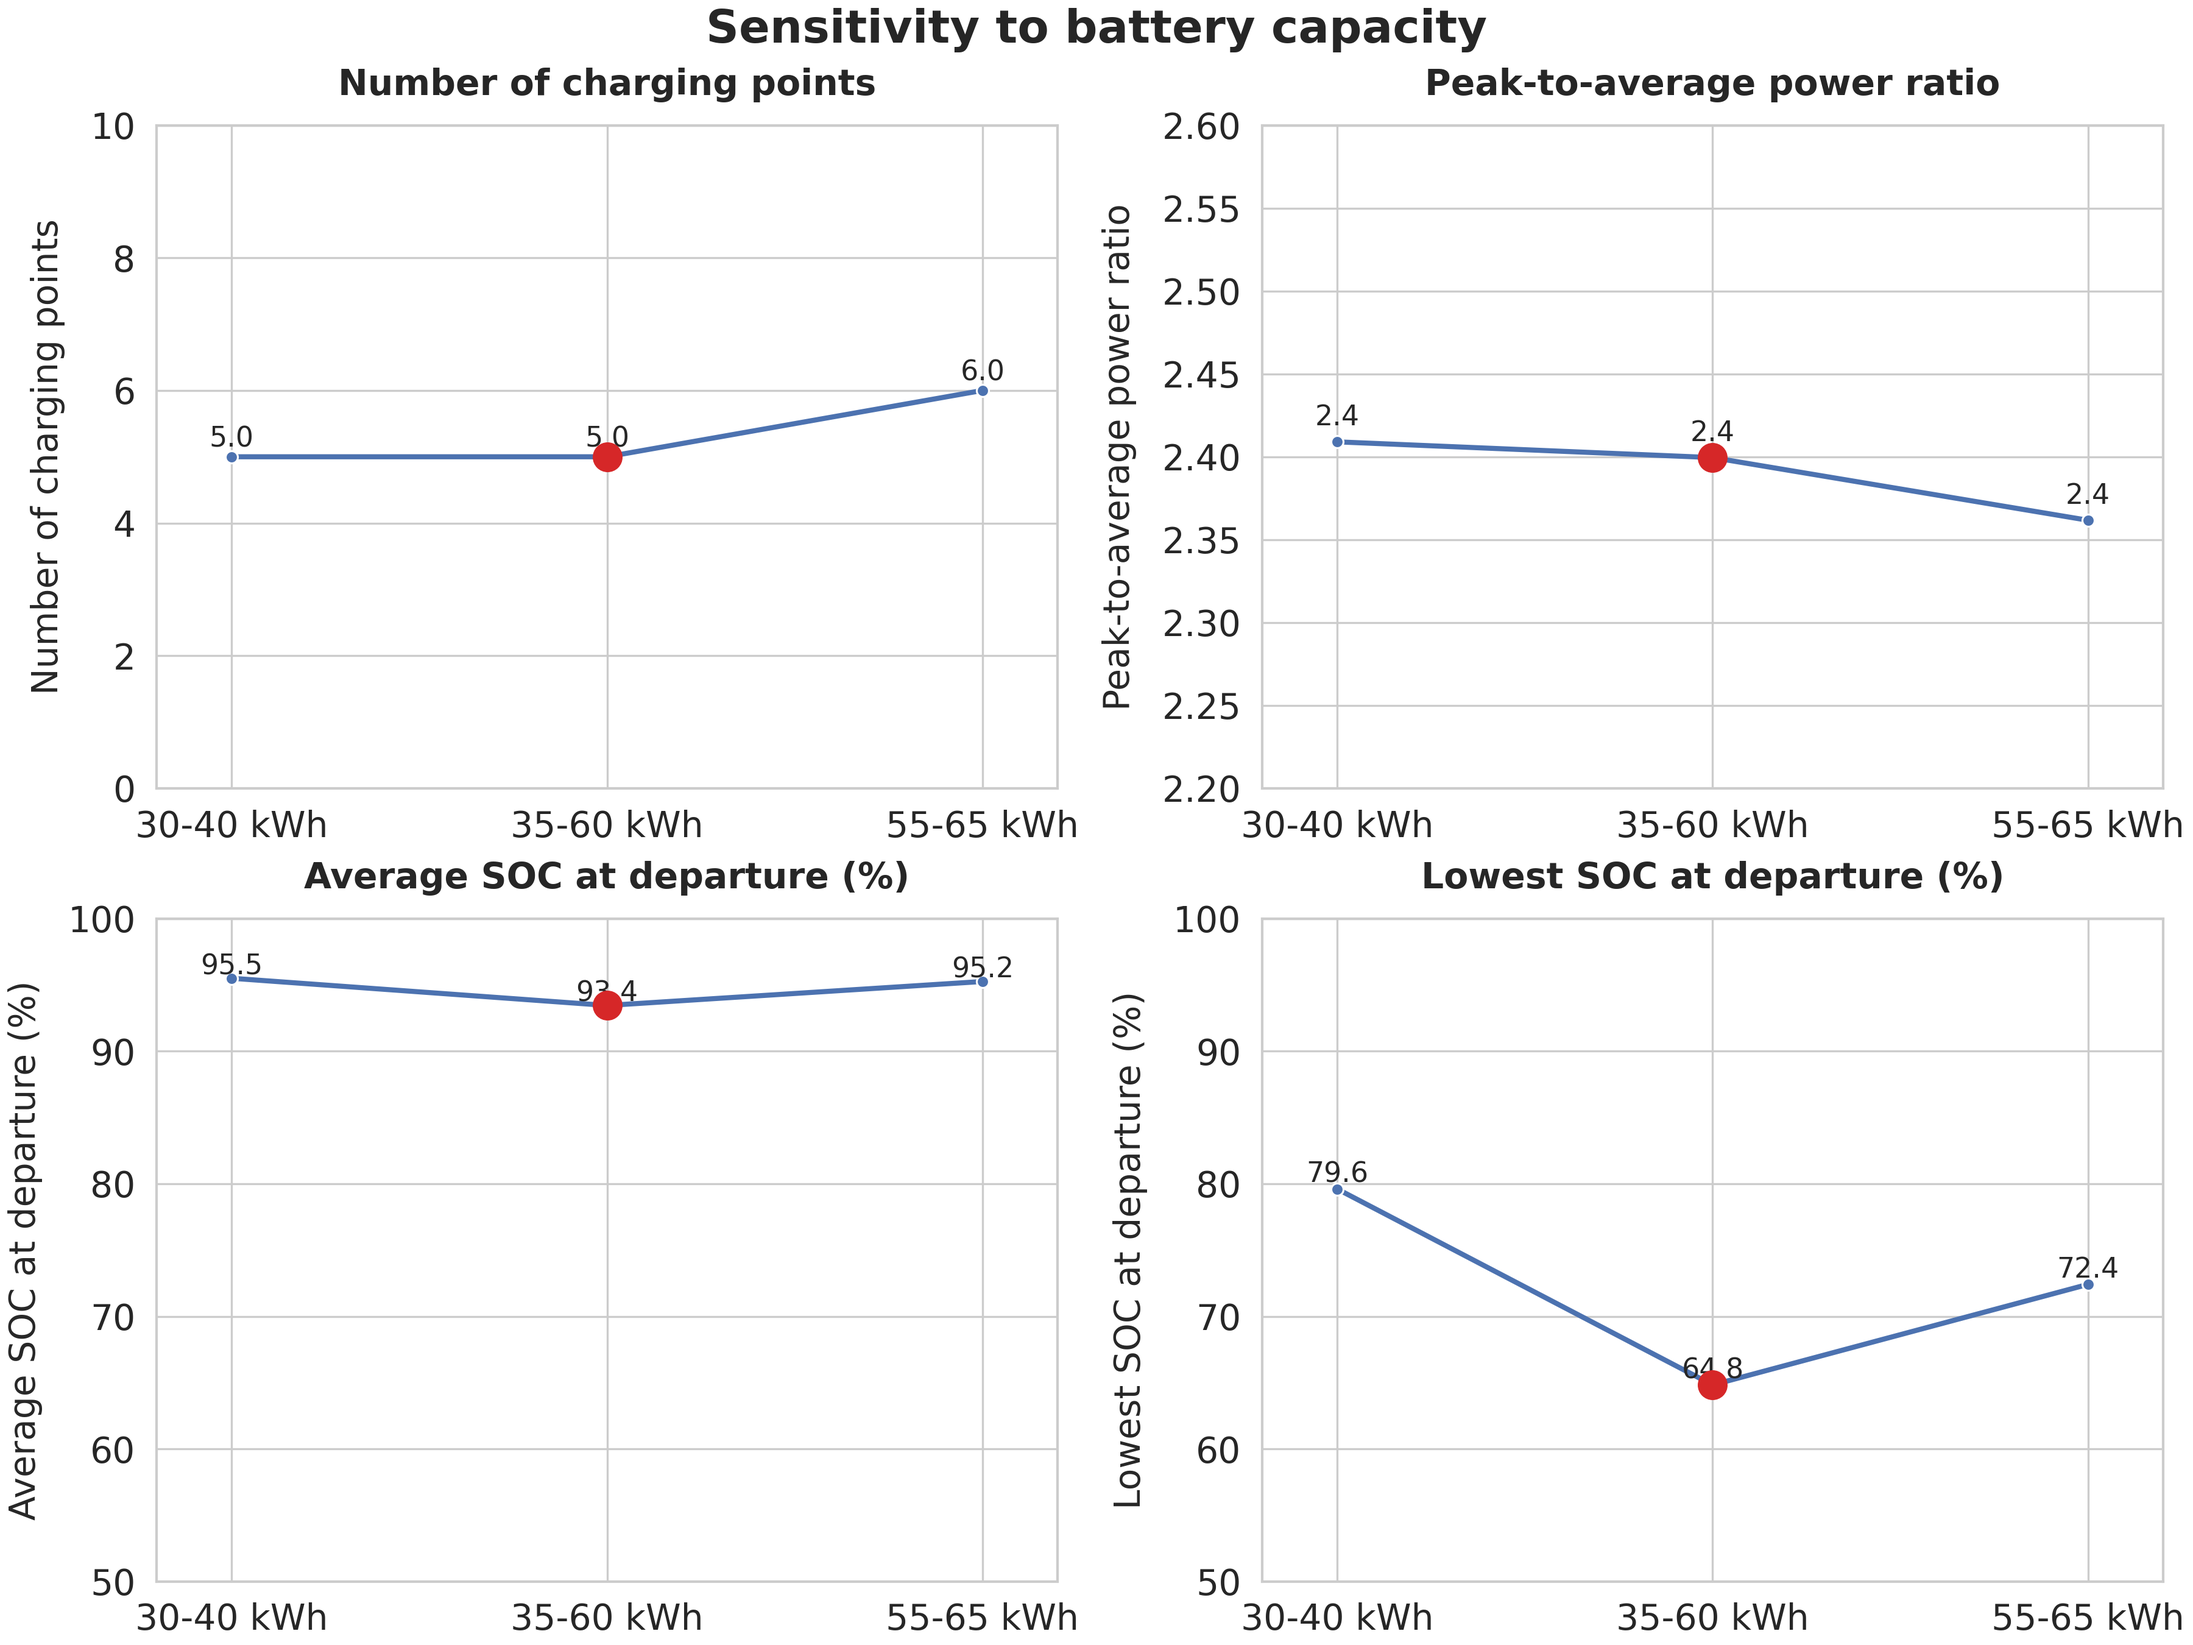
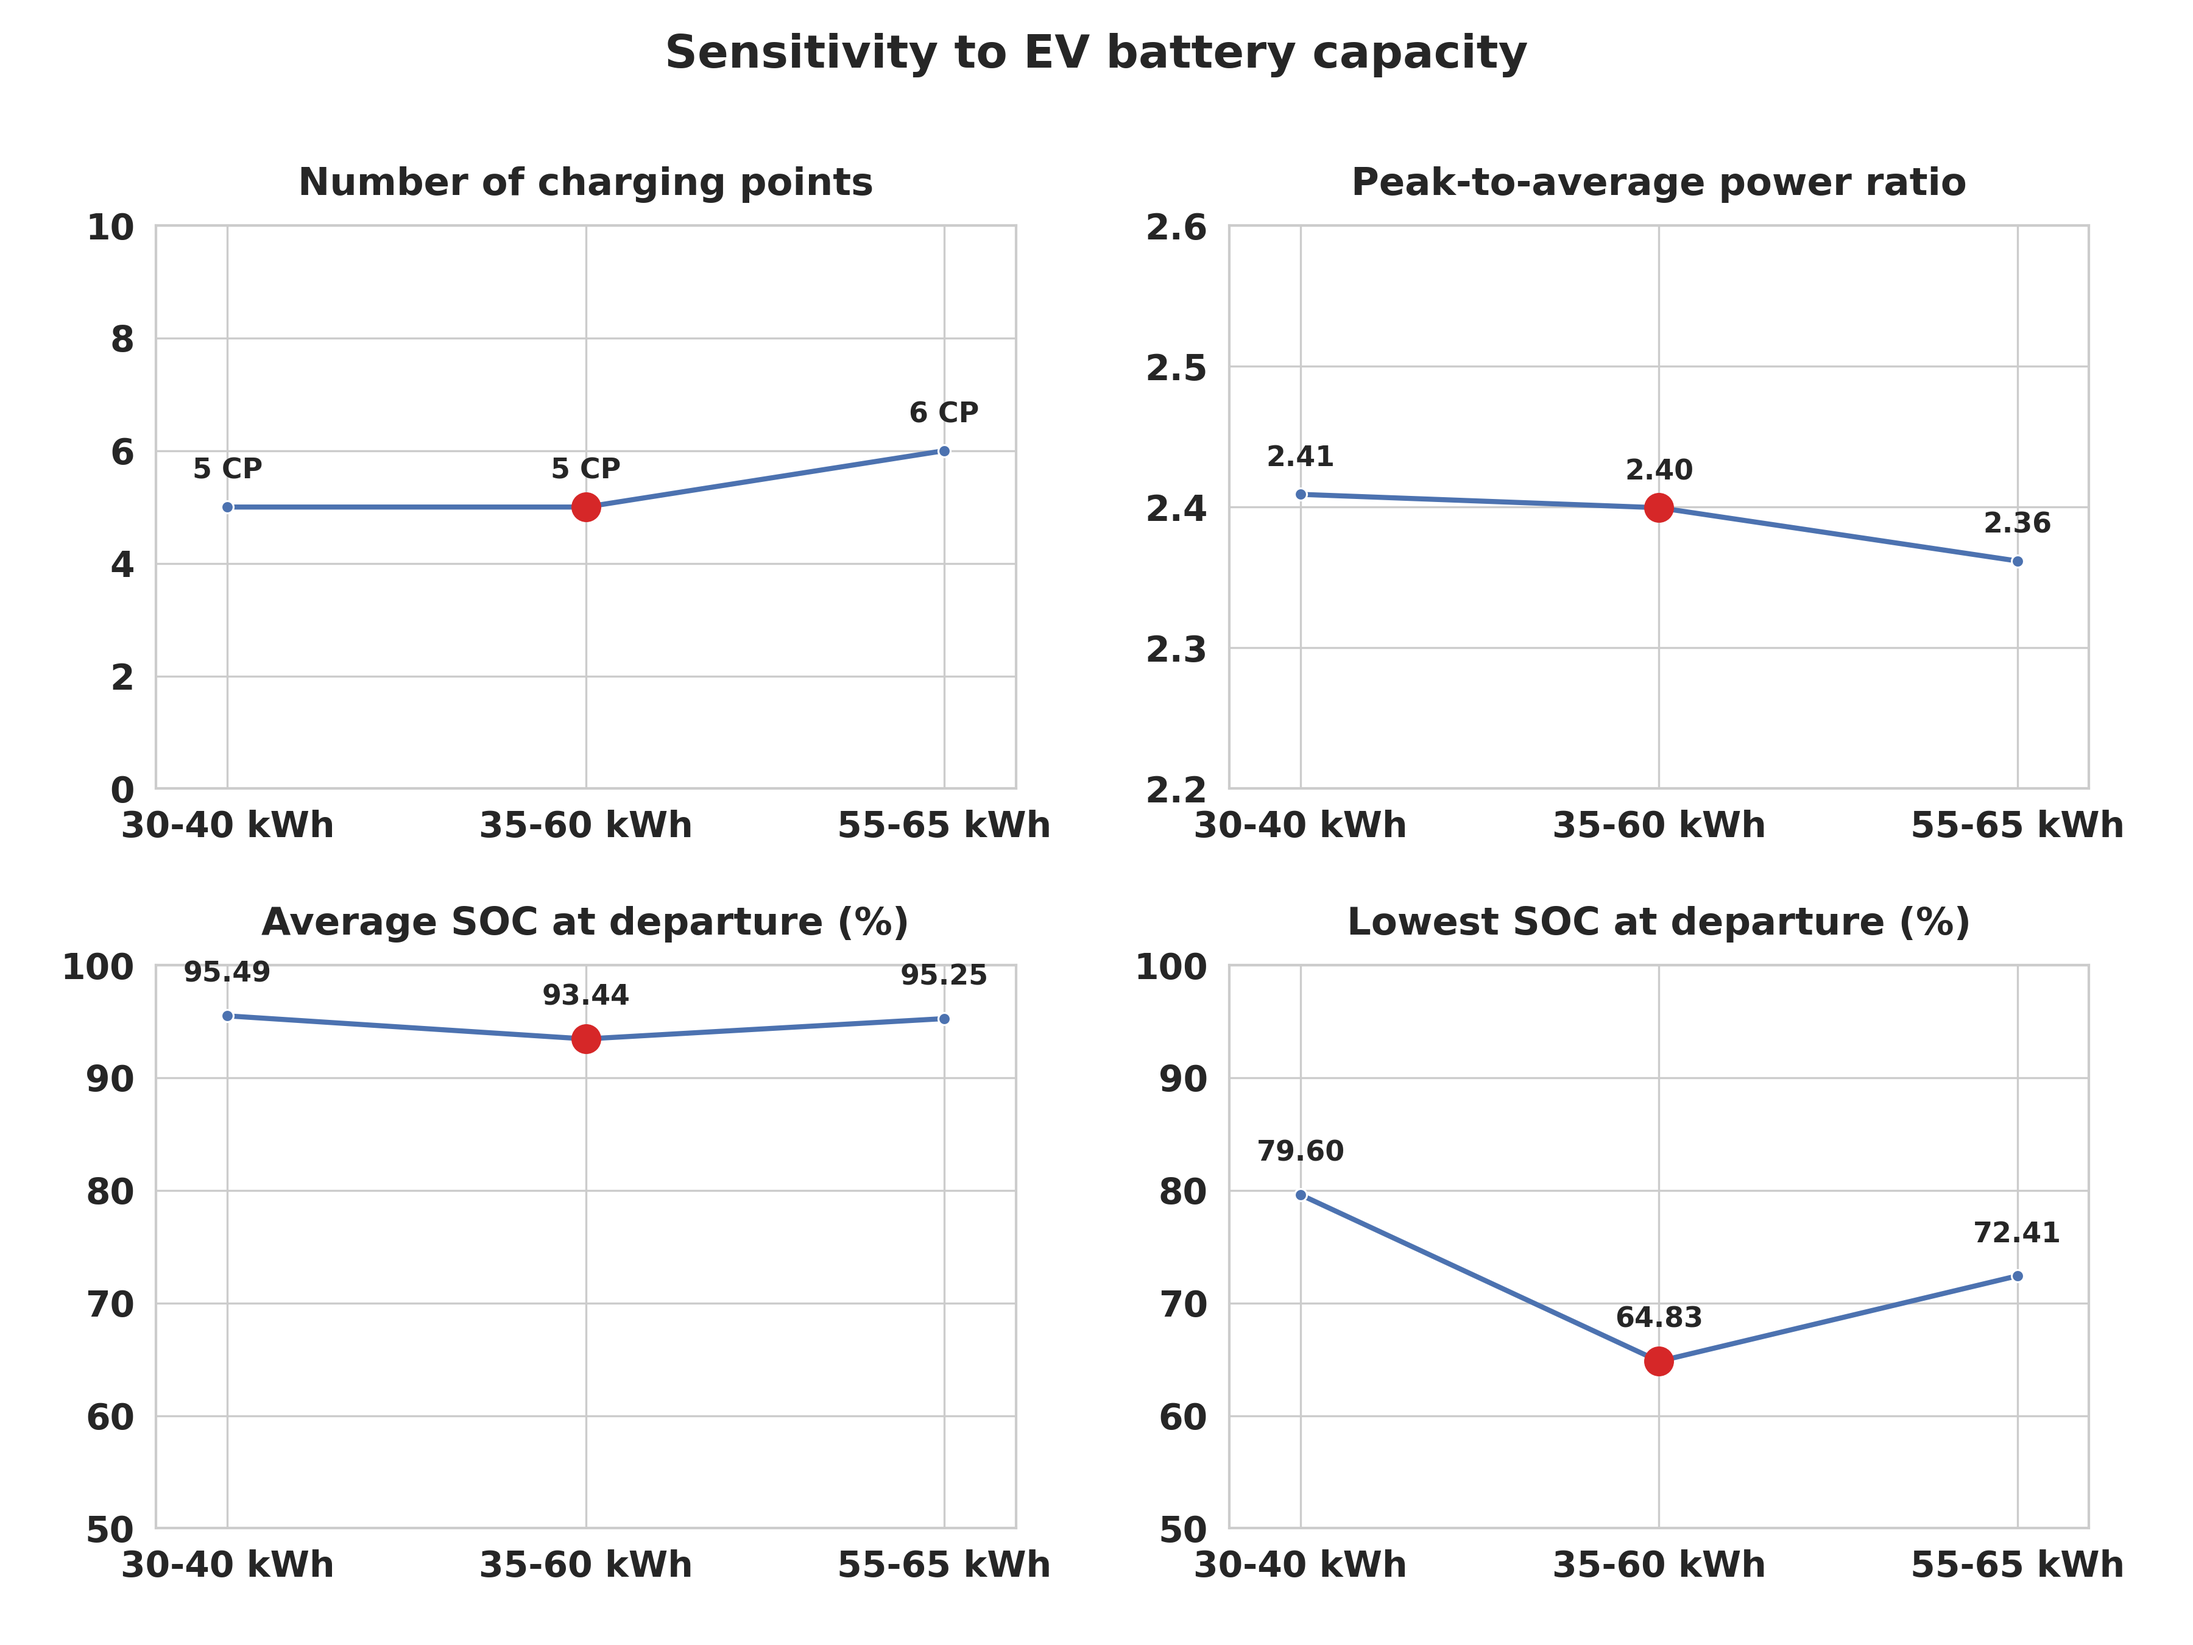
New model outputs and update sensitivity analysis plotting pipeline

diff --git a/src/visualisation/plot_comparison/sensitivity_analysis.py b/src/visualisation/plot_comparison/sensitivity_analysis.py
@@ -7,8 +7,6 @@ from src.visualisation import plot_setups, plot_configs
 from src.config import params
 
 
-
-
 def get_filepath(version: str, min_soc: float, max_soc: float, cap: str, avg_dist: int):
     file_prefix = f'raw_values_compiled_metrics_{params.num_of_evs}EVs_{params.num_of_days}days_{version}'
     file_parameters = f'{min_soc}min_{max_soc}max_cap{cap}_{avg_dist}km.csv'
@@ -96,7 +94,7 @@ def get_df(params_comb: list[dict]):
 def plot_sensitivity(df: pd.DataFrame, metrics: list[str], y_labels: list[str], x_col: str, title: str, filename: str, order: list[str]):
     sns.set_theme(style='whitegrid', context='paper')
 
-    fig, axes = plt.subplots(2, 2, figsize=(12, 9), constrained_layout=True)
+    fig, axes = plt.subplots(2, 2, figsize=(12, 9))
     axes = axes.flatten()
 
     df = df.copy()
@@ -106,15 +104,15 @@ def plot_sensitivity(df: pd.DataFrame, metrics: list[str], y_labels: list[str], 
     ylims = {
         'num_cp': (0, 10),
         'papr': (2.2, 2.6),
-        'avg_soc_t_dep_percent': (90, 100),
+        'avg_soc_t_dep_percent': (50, 100),
         'lowest_soc': (50, 100)
     }
 
     offsets = {
-        'num_cp': 0.15,
-        'papr': 0.01,
-        'avg_soc_t_dep_percent': 0.3,
-        'lowest_soc': 0.5
+        'num_cp': 0.5,
+        'papr': 0.02,
+        'avg_soc_t_dep_percent': 3,
+        'lowest_soc': 3
     }
 
     baseline = order[1]
@@ -140,15 +138,56 @@ def plot_sensitivity(df: pd.DataFrame, metrics: list[str], y_labels: list[str], 
         )
 
         axes[i].set_xlabel('')
-        axes[i].set_ylabel(y_labels[metric])
-        axes[i].set_title(y_labels[metric])
+        axes[i].set_ylabel(
+            ''
+            # y_labels[metric],
+            # fontsize=12,
+            # fontweight='bold',
+            # labelpad=12
+        )
+        axes[i].set_title(
+            y_labels[metric],
+            fontsize=15,
+            fontweight='bold',
+            pad=12
+        )
         axes[i].margins(x=0.1)
         axes[i].set_ylim(ylims[metric])
 
-        for x, y in zip(df[x_col], df[metric]):
-            axes[i].text(x, y + offsets[metric], f'{y:.1f}', ha='center', fontsize=9)
+        axes[i].tick_params(
+            axis='both',
+            labelsize=14,
+        )
 
-    fig.suptitle(title, fontsize=14)
+        for label in axes[i].get_xticklabels():
+            label.set_fontweight('bold')
+
+        for label in axes[i].get_yticklabels():
+            label.set_fontweight('bold')
+
+        # Set annotation on datapoints
+        for x, y in zip(df[x_col], df[metric]):
+            if metric == 'num_cp':
+                label = f'{int(y)} CP'
+            else:
+                label = f'{y:.2f}'
+
+            axes[i].text(
+                x,
+                y + offsets[metric],
+                label,
+                ha='center',
+                fontsize=11,
+                fontweight='bold'
+            )
+
+    fig.suptitle(
+        title,
+        fontsize=18,
+        fontweight='bold',
+    )
+
+    plt.tight_layout(pad=2.5)
 
     filepath = os.path.join(params.plots_folder_path, filename)
     plt.savefig(filepath, dpi=300)
@@ -185,16 +224,15 @@ if __name__ == '__main__':
 
     df_all = get_df(params_combination)
 
-
     # Sensitivity to initial SOC
     df_soc = df_all[df_all['capacity'] == '35-60 kWh']
     df_soc = df_soc[df_soc['distance'] == '25 km']
     plot_sensitivity(
+        df_soc,
         metrics,
         y_labels,
-        df_soc,
         'soc_range',
-        'Sensitivity to initial SOC limits',
+        'Sensitivity to initial SOC range',
         'soc_sensitivity.png',
         ['20-40%', '40-60%', '60-80%']
     )
@@ -203,11 +241,11 @@ if __name__ == '__main__':
     df_cap = df_all[df_all['soc_range'] == '40-60%']
     df_cap = df_cap[df_cap['distance'] == '25 km']
     plot_sensitivity(
+        df_cap,
         metrics,
         y_labels,
-        df_cap,
         'capacity',
-        'Sensitivity to battery capacity',
+        'Sensitivity to EV battery capacity',
         'capacity_sensitivity.png',
         ['30-40 kWh', '35-60 kWh', '55-65 kWh']
     )
@@ -216,9 +254,9 @@ if __name__ == '__main__':
     df_dist = df_all[df_all['soc_range'] == '40-60%']
     df_dist = df_dist[df_dist['capacity'] == '35-60 kWh']
     plot_sensitivity(
+        df_dist,
         metrics,
         y_labels,
-        df_dist,
         'distance',
         'Sensitivity to average travel distance',
         'distance_sensitivity.png',
